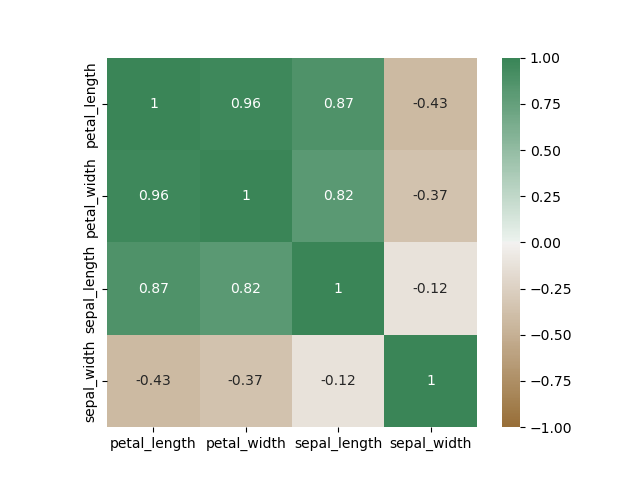
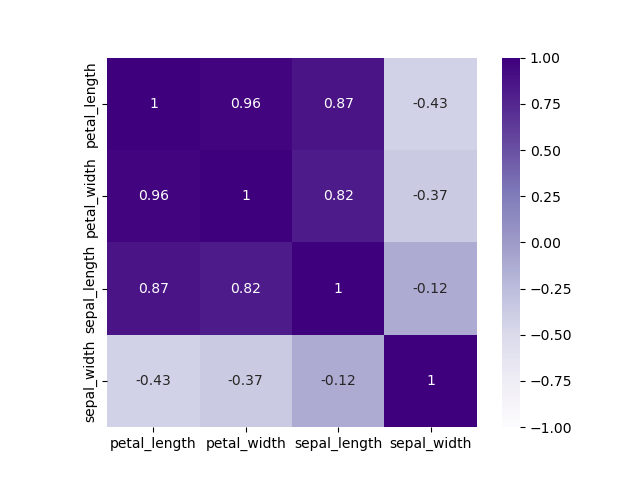
Project scatter plots

diff --git a/analysis 3.py b/analysis 3.py
@@ -288,92 +288,21 @@ axis_corr = sns.heatmap(        # create a heatmap using Seaborn's heatmap funct
     vmin=-1,                    # set variable min to -1
     vmax=1,                     # set variable max to 1
     center=0,                   # specifies the center value for the colormap
-    cmap="Purples",             # sets the colour pallette
+    cmap=sns.diverging_palette(50, 500, n=500),     # sets the colour pallette
     square=True,                # all cells are square
     annot=True,                 # Display correlation values in each box
     )
 
-plt.savefig("iris_heatmap")                 # save to png.
+plt.savefig("iris_heatmap")                     # save to png.
+plt.show()
 
-plt.close("all")   
 
 
-# Scatterplot Diagrams
 
-setosa=df[df["species"]=="setosa"]
-versicolor =df[df["species"]=="versicolor"]
-virginica =df[df["species"]=="virginica"]
 
-fig,ax=plt.subplots(1,2,figsize=(16, 8))
 
-setosa.plot(x="sepal_length",               # set x axis
-            y="sepal_width",                # set y axis
-            kind="scatter",                 # scatter plot
-            ax=ax[0],                       # set diagram 1
-            label="I. Setosa",              # label the first species
-            color="darkturquoise",          # define a colour
-            marker="^"                      # change dots to triangles
-            )
 
-versicolor.plot(x="sepal_length",           # set x axis
-                y="sepal_width",            # set y axis
-                kind="scatter",             # scatter plot
-                ax=ax[0],                   # set diagram 1
-                label="I. Versicolor",      # label the second species
-                color="blue",               # define a colour
-                marker="^"                  # change dots to triangles
-                )
-
-virginica.plot(x="sepal_length",            # set x axis
-                y="sepal_width",            # set y axis
-                kind="scatter",             # scatter plot
-                ax=ax[0],                   # set diagram 1
-                label="I. Virginica",       # label the third species
-                color="darkviolet",         # define a colour
-                marker="^"                  # change dots to triangles
-                )
-
-setosa.plot(x="petal_length",               # set x axis
-            y="petal_width",                # set y axis
-            kind="scatter",                 # scatter plot
-            ax=ax[1],                       # set diagram 2
-            label="I. Setosa",              # label the first species
-            color="darkturquoise",          # define a colour
-            marker="^"                      # change dots to triangles
-            )
-
-versicolor.plot(x="petal_length",           # set x axis
-                y="petal_width",            # set y axis
-                kind="scatter",             # scatter plot
-                ax=ax[1],                   # set diagram 2
-                label="I. Versicolor",      # label the second species
-                color="blue",               # define a colour
-                marker="^"                  # change dots to triangles
-                )
-virginica.plot(x="petal_length",            # set x axis
-                y="petal_width",            # set y axis
-                kind="scatter",             # scatter plot
-                ax=ax[1],                   # set diagram 3
-                label="I. Virginica",       # label the third species
-                color="darkviolet",         # define a colour
-                marker="^"                  # change dots to triangles
-                )
-
-ax[0].set_title("Sepal Width vs. Sepal Length for Iris Species", # set title
-        fontsize=14,                        # font size = controls the size of the font and sets it to 18.
-        fontweight="bold",                  # font weight = controls the weight of the font - bold                      
-        family="monospace")                 # family = controls the font family of the font - monospace))
-
-ax[1].set_title("Petal Width vs. Petal Length for Iris Species", # set title
-        fontsize=14,                        # font size = controls the size of the font and sets it to 18.
-        fontweight="bold",                  # font weight = controls the weight of the font - bold                      
-        family="monospace")                 # family = controls the font family of the font - monospace))
-
-ax[0].legend(title="Species", loc="best")   # show legend with title for first plot                              
-ax[1].legend(title="Species", loc="best")   # show legend with title for first plot      
-
-plt.savefig("iris_scatterplot")      
-
-# plt.show()
-plt.close("all")  
-
+#plen = df ["petal_length"]
+#pwidth = df ["petal_width"]
+#slen = df ["sepal_length"]
+#swidth = ["sepal_width"]
